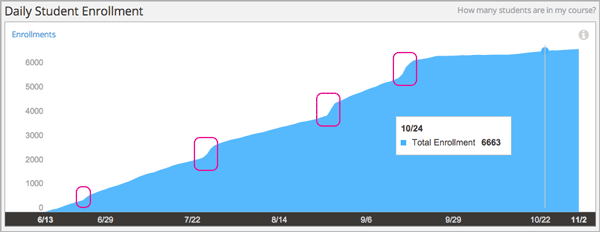
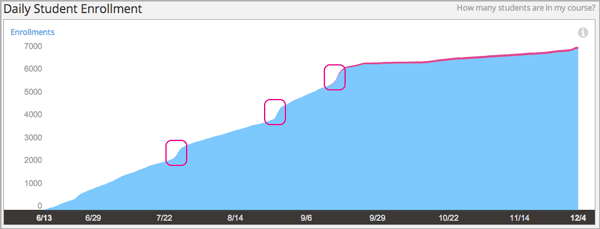
Enrollment activity by track

diff --git a/docs/en_us/dashboard/source/enrollment/Enrollment_Activity.rst b/docs/en_us/dashboard/source/enrollment/Enrollment_Activity.rst
@@ -23,23 +23,34 @@ information about the computations, see :ref:`Reference`.
 Daily Student Enrollment Chart
 ======================================
 
-Each marker on this chart represents the total number of enrolled learners on a
-particular date. Moving your cursor over the chart shows a tool tip with the
-enrollment count for each day.
+The daily student enrollment chart is a stacked area chart: the filled area
+represents the total number of enrolled learners on a particular date. For
+courses that offer more than one enrollment option or track, different colors
+represent the number of students who are enrolled with each option. 
 
-The chart includes enrollment data for every day, beginning with the automated
-enrollment of the course creator when the course was created in Studio. This
-data is also available for review in tabular format and can be downloaded.
+The chart currently includes these enrollment options and tracks, if they are
+offered for your course.
+
+* Honor certificate 
+* Verified certificate
+* Professional education program
+  
+Moving your cursor over the chart shows a tool tip with the counts for each
+enrollment type, and the total enrollment, for each day.
+
+The chart includes enrollment data for every day, beginning with the first
+enrollment (typically of the course creator). This data is also available for
+review in tabular format and can be downloaded.
 
 A couple of examples of this chart follow for different courses. In the first
-example, you see the enrollment climb fairly steadily over a period of five months for a MOOC. The markers begin with 2 "student" enrollments (almost
+example, for a MOOC, you see enrollment climb fairly steadily over a period of 
+several months. The markers begin with two "student" enrollments (almost
 certainly the course creator and another staff member) on the day the course
-was created in Studio. 
+was created in Studio.
 
 .. image:: ../images/enrollment_chart.png
- :alt: The Daily Student Enrollment chart for nearly six months. The periods
-       when the rate of enrollment was greater are circled, and the tip for the
-       course start date on October 24th is shown.
+ :alt: The Daily Student Enrollment chart for six months. The periods when the
+       rate of enrollment was greater are circled.
 
 .. ColumbiaX/HIST1.1x/3T2014/enrollment/activity/
 
@@ -52,11 +63,12 @@ increase.
 
 The second example shows the Daily Student Enrollment chart for a small,
 private online course. In this course, the course team used the Instructor
-Dashboard to autoenroll all of the students.
+Dashboard to automatically enroll all of the students.
 
 .. image:: ../images/enrollment_chart_SPOC.png
- :alt: The Daily Student Enrollment chart with a nearly vertical line showing
-       an increase from just over 0 to over 700 students in a two week period.
+ :alt: A Daily Student Enrollment chart with a nearly vertical line showing
+       an increase from just over 0 to over 700 students in a two week period. 
+       The mouseover tip for May 17, 2014 is shown.
 
 .. IMFx/OL14.01/2T2014/enrollment/activity/
 
@@ -78,6 +90,21 @@ This metric reports the difference between the enrollment total at the
 end of the day yesterday and at the end of the day one week ago.
 
 ======================================
+Verified Enrollment Metric
+======================================
+  
+This count reports the total number of enrolled students who have elected to
+pursue a verified certificate for the course. 
+
+======================================================
+Change in Verified Enrollments Last Week Metric
+======================================================
+  
+This metric reports the difference between the number of enrolled students who
+are in the verified certificate track as of the end of the day yesterday and at
+the end of the day one week ago.
+
+======================================
 Enrollment Over Time Report 
 ======================================
 
@@ -85,13 +112,23 @@ The daily total enrollment count, through the date of the last update, is
 available for review or download. Columns show each **Date** and its **Total
 Enrollment**.
 
+The report includes additional columns for courses that offer certification
+options or enrollment tracks in addition to the honor certificate audit track.
+For courses with multiple enrollment tracks, the report includes the **Verified
+Enrollment** or **Professional Enrollment** column, or both. The report also
+includes the **Honor Code Enrollment** column for the count of enrolled
+students who did not elect one of those options.
+
 To download the Enrollment Over Time report in a comma-separated value file,
 click **Download CSV**. The CSV file contains the following columns: 
 
-* count
+* count (total enrollment)
 * course_id
 * created (the date and time of the computation)
 * date
+* honor
+* professional
+* verified
 
 .. info on why you might want to download, what to do with csv after
 

diff --git a/docs/en_us/dashboard/source/Reference.rst b/docs/en_us/dashboard/source/Reference.rst
@@ -85,14 +85,45 @@ For information about viewing enrollment activity data in edX Insights, see
 
 **Enrollment Over Time chart**
   
-* The markers on the chart represent the number of users enrolled in the
-  course each day.
+* The filled area of this stacked area chart represents the total
+  number of users enrolled in the course each day.
 
-* The x-axis shows dates from course creation through the end of
-  the last update period.
+* The x-axis shows dates from course creation through the end of the last
+  update period.
 
-* The y-axis shows the number of enrolled users.
+* The y-axis shows the total number of enrolled users. 
+
+* For courses that offer more than one enrollment option or certification
+  track, different colors in the filled area represent the contribution of each
+  option and track to the enrollment total.
+
+  In addition to honor code certificates, courses can offer a verified
+  certificate option or enroll students through a professional education
+  program.
+
+* Each enrolled student is included in one, and only one, of the possible
+  enrollment tracks on a given date. The student's enrollment track as of 23:59
+  UTC is used each day.
+
+**Enrollment Over Time report**
+
+* If a course offers students the option to pursue a verified certificate, the
+  report includes columns for **Verified Enrollment** and **Honor Code
+  Enrollment**.
   
+* If a course enrolls students through a professional education program, the
+  report includes columns for **Professional Enrollment** and **Honor Code
+  Enrollment**.
+
+* The **Honor Code Enrollment** column reports the count of students who opted
+  to receive an honor code certificate for the course.
+
+  At one time, the edx.org site offered students options to "audit" the course
+  only, or to audit the course and then receive an "honor" certificate when a
+  passing grade was achieved. For courses that ran at that time, the **Honor
+  Code Enrollment** column reports the sum of the students with these
+  enrollment options.
+
 .. _Demographic Computations:
 
 *********************************

diff --git a/docs/en_us/shared/preface.rst b/docs/en_us/shared/preface.rst
@@ -150,7 +150,7 @@ Documentation
 
 Documentation for developers is available on the docs.edx.org web page.
 
-* `edX Platform Developer's Guide`_ collects information directly from edX
+* The `edX Platform Developer's Guide`_ collects information directly from edX
   platform python docstrings. The topics in this guide include guidelines for
   contributing to Open edX, options for extending the Open edX platform, using
   the edX public sandboxes, instrumenting analytics, and testing.

diff --git a/docs/en_us/dashboard/source/change_log.rst b/docs/en_us/dashboard/source/change_log.rst
@@ -8,7 +8,9 @@ Change Log
 
    * - Date
      - Change
-   * - 11/25/14
+   * - 12/9/14
+     - Updated :ref:`Enrollment_Activity` to include enrollment tracks.
+   * -
      - Expanded the section on possible :ref:`error conditions<Error
        Conditions>`.
    * - 11/24/14

diff --git a/docs/en_us/dashboard/source/index.rst b/docs/en_us/dashboard/source/index.rst
@@ -10,10 +10,8 @@ Using edX Insights
    :numbered:
    :maxdepth: 2
 
-   read_me
-   preface
-   browsers
    change_log
+   front_matter/index
    Overview
    enrollment/index
    engagement/index

diff --git a/docs/en_us/dashboard/source/front_matter/index.rst b/docs/en_us/dashboard/source/front_matter/index.rst
@@ -1,0 +1,11 @@
+#############################
+For Your Information
+#############################
+
+.. toctree::
+   :numbered:
+   :maxdepth: 2
+
+   read_me
+   preface
+   browsers

diff --git a/docs/en_us/dashboard/source/front_matter/browsers.rst b/docs/en_us/dashboard/source/front_matter/browsers.rst
@@ -1,0 +1,1 @@
+.. include:: ../../../shared/browsers.rst

diff --git a/docs/en_us/dashboard/source/front_matter/preface.rst b/docs/en_us/dashboard/source/front_matter/preface.rst
@@ -1,0 +1,1 @@
+.. include:: ../../../shared/preface.rst
